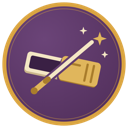
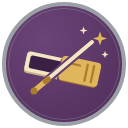
Fix doc gaps found in review of the keeper, caps and feeds docs
Ollivander's avatar now has the script pewter ring the style rules ask for,
with the PNGs re-exported from headless Chrome and the handbook's embedded
copy refreshed. The handbook and onboarding say which desks apply a first
pick by themselves, which desks have caps and role cards, how to rerun a
review for your own Claude sessions, and that Dumbledore's feed name is
portrait. The fleet commands sit in their own full-width block in the HTML
cheat sheet. The office README lists bin/fleet, bin/hogwarts-spaces, fleet/,
hogwarts/watch.py and db.connect_readonly.

diff --git a/docs/handbook.html b/docs/handbook.html
@@ -188,6 +188,8 @@ pre.tree .c { color: var(--muted); }
 @media (max-width: 860px) { .cols3 { grid-template-columns: 1fr; } }
 .col { display: grid; gap: 0.6rem; align-content: start; min-width: 0; }
 .col h3 { font-size: 1.3rem; }
+.col-fleet { margin-top: 1.6rem; }
+.col-fleet .tbl table { min-width: 0; }
 .cmds { display: grid; gap: 0.6rem; counter-reset: c; }
 .cmd { display: grid; grid-template-columns: 1.6rem minmax(0, 1fr); gap: 0.6rem; align-items: start; }
 .cmd::before { counter-increment: c; content: counter(c); font-family: var(--font-display); color: var(--accent); font-size: 1.2rem; line-height: 1.3; }
@@ -553,7 +555,7 @@ pre.cmdline { margin: 0.4rem 0 0; background: var(--code-bg); border-radius: 5px
[5 lines of base64/hex data omitted]
       </tbody>
     </table>
   </div>
@@ -636,10 +638,10 @@ pre.cmdline { margin: 0.4rem 0 0; background: var(--code-bg); border-radius: 5px
     <div class="panel">
       <h3>What happens after a pick</h3>
       <ul class="plain-list">
-        <li>A desk's first pick applies by itself.</li>
+        <li>A headless desk's first pick applies by itself. That covers Hermione, Ron, Dumbledore, Harry and Moody.</li>
         <li>After that, a move to the same tier or a cheaper one (fast, then workhorse, then frontier) applies by itself, with a note.</li>
         <li>A costlier move waits as a pending pick. To say yes, run <code>castle desk model &lt;desk&gt; --approve</code>.</li>
-        <li>McGonagall and Snape take their model from the <code>model:</code> line in their agent files. Ollivander never edits those files. He tells you the one line to change.</li>
+        <li>McGonagall and Snape take their model from the <code>model:</code> line in their agent files. Ollivander never edits those files. For them he only sends a note with the one line to change, even for a first pick.</li>
       </ul>
     </div>
   </div>
@@ -685,8 +687,8 @@ castle model line &lt;name&gt; &lt;line&gt;     file a model name under a tier</
   <ul class="gates">
     <li><b>The warning</b><span>A desk that reaches 80% of a cap sends one note for that cap that day.</span></li>
     <li><b>The cap event</b><span>At the cap, the desk's next run doesn't start and its request keeps waiting. You get one note that names the cap, how much was used, how many requests are waiting, when it resets and the command that lifts it.</span></li>
-    <li><b>Look and lift</b><span><code>castle desk caps</code> shows today's numbers for every desk. <code>castle desk cap &lt;desk&gt; --runs +N</code> or <code>--spend +X</code> raises one cap until the next reset, then it falls back.</span></li>
-    <li><b>Reviews wait, too</b><span>If the reviewer is at its cap, the review request waits. After the reset or a bump, run <code>fleet review &lt;task-id&gt;</code> again. The new review replaces the waiting one, so only the newest commit of a task gets reviewed.</span></li>
+    <li><b>Look and lift</b><span><code>castle desk caps</code> shows today's numbers for every headless desk. McGonagall, Snape and the scripts have no cap, so they don't appear. <code>castle desk cap &lt;desk&gt; --runs +N</code> or <code>--spend +X</code> raises one cap until the next reset, then it falls back. A bump is at most +500 runs or +$500. <code>--spend</code> works only for Hermione, Ron and Dumbledore, because Harry and Moody have no spend cap.</span></li>
+    <li><b>Reviews wait, too</b><span>If the reviewer is at its cap, the review request waits. After the reset or a bump, run <code>fleet review &lt;task-id&gt;</code> again. For a task from your own Claude sessions, run <code>fleet review own --repo-dir &lt;checkout&gt; --task &lt;task-id&gt;</code> instead. The new review replaces the waiting one, so only the newest commit of a task gets reviewed.</span></li>
     <li><b>Three rounds per task</b><span>Only a round where the reviewer recorded a verdict counts. A crash, a timeout, a cap refusal or a vendor limit doesn't use one up. The next round waits for you: <code>castle task allow-round &lt;task-id&gt;</code> allows exactly one more, and <code>castle task rounds &lt;task-id&gt;</code> lists every round and whether it counts.</span></li>
     <li><b>Which limit hit</b><span>The note says whether it was the fleet's cap or the vendor's own limit: <code>cap_source fleet</code>, or <code>claude_plan</code> or <code>codex_plan</code> when your Claude or Codex plan's own usage or rate limit stopped the run. A bump can't lift a plan limit. It clears on the vendor's own reset.</span></li>
   </ul>
@@ -702,7 +704,7 @@ castle model line &lt;name&gt; &lt;line&gt;     file a model name under a tier</
     <div class="panel">
       <h3>Feeds</h3>
       <ul class="plain-list">
-        <li><code>fleet feed --desk &lt;name&gt;</code> follows one desk. <code>fleet feed --desk owl-post</code> follows every owl.</li>
+        <li><code>fleet feed --desk &lt;name&gt;</code> follows one desk. Use the desk's registry name. Dumbledore's is <code>portrait</code>, and a name that matches no desk just shows nothing. <code>fleet feed --desk owl-post</code> follows every owl.</li>
         <li><code>fleet feed --all</code> follows every desk at once.</li>
         <li>A feed prints a line whenever something happens: owls to and from the desk (kind and subject, never the body), the start and end of each run with its model, time, tokens and cost, the desk's notes to you, and, while a run is going, what the desk says and which tools it calls.</li>
         <li>It is read-only. It opens the store read-only, only reads files, and strips every control sequence from what a desk wrote, so a desk can't steer your terminal through it. Ctrl+C stops it.</li>
@@ -813,7 +815,8 @@ castle model line &lt;name&gt; &lt;line&gt;     file a model name under a tier</
         </tbody>
       </table></div>
     </div>
-    <div class="col">
+  </div>
+  <div class="col col-fleet">
       <h3>fleet</h3>
       <p class="muted small">The same path style as castle: <code>~/.hogwarts/bin/fleet</code>.</p>
       <div class="tbl"><table>
@@ -822,11 +825,11 @@ castle model line &lt;name&gt; &lt;line&gt;     file a model name under a tier</
           <tr><td data-label="Type"><code>fleet feed --desk &lt;name&gt;</code></td><td data-label="To">Watch one desk, read-only</td></tr>
           <tr><td data-label="Type"><code>fleet feed --all</code></td><td data-label="To">Watch every desk, read-only</td></tr>
           <tr><td data-label="Type"><code>fleet ollivander --dry-run</code></td><td data-label="To">See Ollivander's plan without changing anything</td></tr>
-          <tr><td data-label="Type"><code>fleet review &lt;task-id&gt;</code></td><td data-label="To">Review a task's newest commit, or run a waiting review again</td></tr>
+          <tr><td data-label="Type"><code>fleet review &lt;task-id&gt;</code></td><td data-label="To">Review a build desk's newest commit, or run a waiting review again</td></tr>
+          <tr><td data-label="Type"><code>fleet review own --repo-dir &lt;checkout&gt; --task &lt;task-id&gt;</code></td><td data-label="To">The same for a task from your own Claude sessions</td></tr>
           <tr><td data-label="Type"><code>~/.hogwarts/bin/hogwarts-spaces</code></td><td data-label="To">Open one herdr space per desk</td></tr>
         </tbody>
       </table></div>
-    </div>
   </div>
 </section>
 

diff --git a/docs/HANDBOOK.md b/docs/HANDBOOK.md
@@ -202,10 +202,10 @@ You don't pick models by name. Each desk has a role card at `~/.hogwarts/desks/<
 
 **What happens after a pick**
 
-- A desk's first pick applies by itself.
+- A headless desk's first pick applies by itself. That covers Hermione, Ron, Dumbledore, Harry and Moody.
 - After that, a move to the same tier or a cheaper one (fast, then workhorse, then frontier) applies by itself, with a note.
 - A costlier move waits as a pending pick. To say yes, run `castle desk model <desk> --approve`.
-- McGonagall and Snape take their model from the `model:` line in their agent files. Ollivander never edits those files. He tells you the one line to change.
+- McGonagall and Snape take their model from the `model:` line in their agent files. Ollivander never edits those files. For them he only sends a note with the one line to change, even for a first pick.
 
 **Look and steer**
 
@@ -244,8 +244,8 @@ The day resets at local midnight on your Mac, daylight saving included. The coun
 
 - **The warning.** A desk that reaches 80% of a cap sends one note for that cap that day.
 - **The cap event.** At the cap, the desk's next run doesn't start and its request keeps waiting. You get one note that names the cap, how much was used, how many requests are waiting, when it resets and the command that lifts it.
-- **Look and lift.** `castle desk caps` shows today's numbers for every desk. `castle desk cap <desk> --runs +N` or `--spend +X` raises one cap until the next reset, then it falls back.
-- **Reviews wait, too.** If the reviewer is at its cap, the review request waits. After the reset or a bump, run `fleet review <task-id>` again. The new review replaces the waiting one, so only the newest commit of a task gets reviewed.
+- **Look and lift.** `castle desk caps` shows today's numbers for every headless desk. McGonagall, Snape and the scripts have no cap, so they don't appear. `castle desk cap <desk> --runs +N` or `--spend +X` raises one cap until the next reset, then it falls back. A bump is at most +500 runs or +$500. `--spend` works only for Hermione, Ron and Dumbledore, because Harry and Moody have no spend cap.
+- **Reviews wait, too.** If the reviewer is at its cap, the review request waits. After the reset or a bump, run `fleet review <task-id>` again. For a task from your own Claude sessions, run `fleet review own --repo-dir <checkout> --task <task-id>` instead. The new review replaces the waiting one, so only the newest commit of a task gets reviewed.
 - **Three rounds per task.** A task gets three review rounds. Only a round where the reviewer recorded a verdict counts. A crash, a timeout, a cap refusal or a vendor limit doesn't use one up. The next round waits for you: `castle task allow-round <task-id>` allows exactly one more, and `castle task rounds <task-id>` lists every round and whether it counts.
 - **Which limit hit.** The note says whether it was the fleet's cap or the vendor's own limit: `cap_source fleet`, or `claude_plan` or `codex_plan` when your Claude or Codex plan's own usage or rate limit stopped the run. A bump can't lift a plan limit. It clears on the vendor's own reset.
 
@@ -253,7 +253,7 @@ The day resets at local midnight on your Mac, daylight saving included. The coun
 
 Desks run short. A headless desk takes one owl, does the job and exits, one run at a time, so there's no long session to sit inside. You can still watch every desk work, without typing into anything.
 
-- `fleet feed --desk <name>` follows one desk. `fleet feed --desk owl-post` follows every owl.
+- `fleet feed --desk <name>` follows one desk. Use the desk's registry name. Dumbledore's is `portrait`, and a name that matches no desk just shows nothing. `fleet feed --desk owl-post` follows every owl.
 - `fleet feed --all` follows every desk at once.
 
 A feed prints a line whenever something happens: owls to and from the desk (kind and subject, never the body), the start and end of each run with its model, time, tokens and cost, the desk's notes to you, and, while a run is going, what the desk says and which tools it calls. It is read-only. It opens the store read-only, only reads files, and strips every control sequence from what a desk wrote, so a desk can't steer your terminal through it. Ctrl+C stops it.
@@ -326,7 +326,8 @@ Everything `castle` prints is JSON. If you added the shortcut in one-time setup,
 | `fleet feed --desk <name>` | Watch one desk, read-only |
 | `fleet feed --all` | Watch every desk, read-only |
 | `fleet ollivander --dry-run` | See Ollivander's plan without changing anything |
-| `fleet review <task-id>` | Review a task's newest commit, or run a waiting review again |
+| `fleet review <task-id>` | Review a build desk's newest commit, or run a waiting review again |
+| `fleet review own --repo-dir <checkout> --task <task-id>` | The same for a task from your own Claude sessions |
 | `~/.hogwarts/bin/hogwarts-spaces` | Open one herdr space per desk |
 
 **Claude Code**

diff --git a/office/README.md b/office/README.md
@@ -25,16 +25,21 @@ File modes (0700 directories, 0600 files) keep other users out. They do not stop
   README.md
   .gitignore                            ignores state/
   bin/castle                            POSIX sh wrapper, mode 0700
+  bin/fleet                             POSIX sh wrapper for the fleet command, mode 0700
+  bin/hogwarts-spaces                   opens one herdr space per desk
   hogwarts/__init__.py                  version string
   hogwarts/errors.py                    error classes and exit codes
   hogwarts/ids.py                       id generation, strict validators, path roots
-  hogwarts/db.py                        connect, schema, migrations, transactions, doctor
+  hogwarts/db.py                        connect, read-only connect, schema, migrations, transactions, doctor
   hogwarts/pensieve.py                  desks, tasks, commits, events, sessions, extracts, key points, facts, metrics, scrub
   hogwarts/facts.py                     fact validity windows, subject keys, volatility lint, as-of reads, approved patches
   hogwarts/owlery.py                    owls, requests, review passes, close tokens, purge, audit
   hogwarts/capacity.py                  the cap day, cap bumps, cap hits, review rounds and round allowances
   hogwarts/wands.py                     Ollivander's ledger: model filing, catalogs, each desk's model, trials, the stop file
+  hogwarts/watch.py                     read-only queries behind fleet feed
   hogwarts/cli.py                       argparse CLI, JSON output
+  fleet/                                the fleet scripts and hooks: run_desk.py, review.py, push.py, owl_post.py,
+                                        ollivander.py, feed.py, tools.py (the fleet command) and their helpers
   tests/                                unittest suite
   state/pensieve.db                     the real database, created by castle init
 ```
@@ -134,7 +139,7 @@ The volatility lint matches words, not meaning, so it also catches ordinary last
 
 Every function takes a connection from `db.connect(path)` as its first argument. Functions that depend on time take an optional `now`.
 
-- `hogwarts.db`: `connect(path, create=True)`, `migrate(conn)`, `pending_statements(conn, statements)`, `schema_version(conn)`, `transaction(conn)`, `snapshot(conn)`, `doctor(path, code_root=None)`, `stray_bytecode(root)`, `DEFAULT_DB`.
+- `hogwarts.db`: `connect(path, create=True)`, `connect_readonly(path)`, `migrate(conn)`, `pending_statements(conn, statements)`, `schema_version(conn)`, `transaction(conn)`, `snapshot(conn)`, `doctor(path, code_root=None)`, `stray_bytecode(root)`, `DEFAULT_DB`.
 - `hogwarts.pensieve`
   - Desks: `add_desk`, `get_desk`, `list_desks`.
   - Tasks: `create_task(desk, title, intent_path=None, parent_task_id=None, request_id=None, session_id=None, worktree=None, task_id=None)`, `start_task`, `mark_awaiting_close(task, repo=None, sha=None)`, `record_commit`, `get_commit`, `close_task`, `closed_ancestors`, `get_task`, `list_tasks`.
@@ -148,6 +153,7 @@ Every function takes a connection from `db.connect(path)` as its first argument.
   - Lint: `VOLATILE_PATTERNS`, `volatile_match(text)`, `LOOKUP_COMMAND`.
 - `hogwarts.capacity`: `day_bounds(now, reset_offset)`, `add_bump`, `active_bumps`, `list_bumps`, `cap_status`, `record_cap_hit`, `list_cap_hits`, `waiting_requests`, `open_review_round`, `review_rounds`, `allow_round`.
 - `hogwarts.wands`: `classify`, `ryan_lines`, `record_catalog`, `last_catalog`, `get_desk_model`, `list_desk_models`, `set_need`, `apply_model`, `set_pending`, `clear_pending`, `approve`, `pin`, `unpin`, `record_outcome`, `changes`, `clear_stop`. The calls that file, pin, approve or apply a model take the fleet's `BLOCKED_MODEL_PREFIXES` and refuse a name one of them matches.
+- `hogwarts.watch` (read only, for a connection from `db.connect_readonly`): `marks`, `owls_after`, `headmaster_events_after`, `metrics_after`, `run_recorded`.
 - `hogwarts.owlery`
   - Owls: `send`, `inbox`, `read`, `ack`, `mark_delivered`.
   - Requests: `REQUEST_PHASES`, `open_request`, `advance`, `defer`, `decline`, `get_request`, `list_requests`, `request_owls`.

diff --git a/docs/ONBOARDING.md b/docs/ONBOARDING.md
@@ -350,7 +350,7 @@ Ollivander - Model Keeper keeps each desk on the model its job needs, and never 
    launchctl bootstrap gui/$(id -u) ~/Library/LaunchAgents/com.hogwarts.ollivander.plist
    ```
 
-5. Run his first pass by hand, so you don't wait for 06:00. Each desk's first pick applies by itself. Later moves to a cheaper or equal tier apply with a note, and a costlier one waits for you.
+5. Run his first pass by hand, so you don't wait for 06:00. Each headless desk's first pick applies by itself. Later moves to a cheaper or equal tier apply with a note, and a costlier one waits for you. McGonagall and Snape get a note telling you the one line to change in their agent files.
 
    ```
    ~/.hogwarts/bin/fleet ollivander
@@ -361,7 +361,7 @@ To take the job off again: `launchctl bootout gui/$(id -u)/com.hogwarts.ollivand
 **You're done when** all of these hold:
 
 - `launchctl print gui/$(id -u)/com.hogwarts.ollivander | head -5` shows the job.
-- `~/.hogwarts/bin/castle desk models` lists every Claude and Codex desk with a tier, and a model for each.
+- `~/.hogwarts/bin/castle desk models` lists every desk that has a role card (McGonagall, Hermione, Moody, Dumbledore, Snape, Harry and Ron) with a tier and a model. `ryan-claude-1` has no role card, so it shows no tier.
 - `ls ~/.hogwarts/state/` shows no `ollivander-stop` file.
 
 ### 5.6 The live view
@@ -412,5 +412,5 @@ From here on, the [handbook](HANDBOOK.md) is your guide: which desk to ask, the 
 - [ ] **5.2** Map, Ron and Gringotts in shadow for three days. Restore drill done.
 - [ ] **5.3** Portrait proposals reviewed twice. RTK go or no-go.
 - [ ] **5.4** RTK hook and standing orders, only if the numbers say so.
-- [ ] **5.5** Role cards read, any forbidden models listed, `fleet ollivander --dry-run` read, the daily job loaded, a first pass run, and `castle desk models` shows a tier for every desk.
+- [ ] **5.5** Role cards read, any forbidden models listed, `fleet ollivander --dry-run` read, the daily job loaded, a first pass run, and `castle desk models` shows a tier for every desk that has a role card.
 - [ ] **5.6** `fleet feed --all` prints its first line. `hogwarts-spaces` printed OK or SKIP for all nine spaces.

diff --git a/office/assets/avatars/README.md b/office/assets/avatars/README.md
@@ -14,7 +14,7 @@ Eleven SVG badges struck as one coin set. Transparent PNGs at 512, 128 and 64 li
 | map.svg | Marauder's Map - PR Watcher | Zero-token script that diffs PR and CI state | Two pairs of footprints on a dashed trail with a faint compass rose, on parchment | Script pewter |
 | gringotts.svg | Gringotts - Backup | Nightly local backup script | Diagonal gold vault key over three tilted coins, on deep bronze | Script pewter |
 | owlpost.svg | Owl Post - Message Router | Script that moves requests between desks and stamps the sender | Sealed envelope with a red wax seal and an owl feather, on deep teal | Script pewter |
-| ollivander.svg | Ollivander - Model Keeper | Daily script that keeps each desk on the model its role card asks for | Slim wand box with its lid slid half open and a wand across it throwing three sparks, on plum | Claude gold |
+| ollivander.svg | Ollivander - Model Keeper | Daily script that keeps each desk on the model its role card asks for | Slim wand box with its lid slid half open and a wand across it throwing three sparks, on plum | Script pewter |
 
 ## Style rules
 
